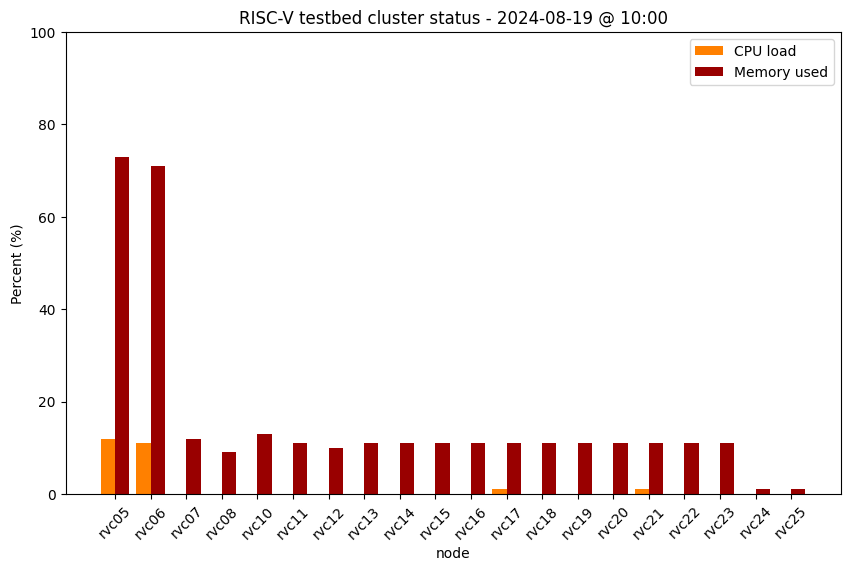
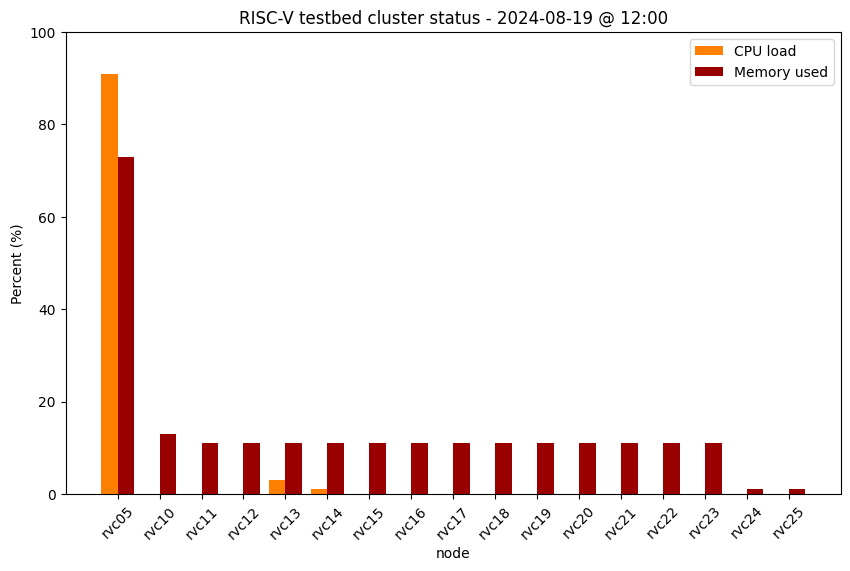
Update cluster status

Changed region(s): [[0.0918, 0.1191, 0.9482, 0.9527], [0.7341, 0.0298, 0.7647, 0.0595]]

diff --git a/status.md b/status.md
@@ -18,9 +18,9 @@ permalink: /status/
 | DongshanNezhaSTU #3 | rvc03 | 1 | 512MB | <img src="/images/amber.png" alt="amber light" width="10"/> offline |
 | DongshanNezhaSTU #4 | rvc04 | 1 | 512MB | <img src="/images/amber.png" alt="amber light" width="10"/> offline |
 | MangoPi MQ-Pro #1 | rvc05 | 1 | 1GB | <img src="/images/on.png" alt="green light" width="10"/> up |
-| MangoPi MQ-Pro #2 | rvc06 | 1 | 1GB | <img src="/images/on.png" alt="green light" width="10"/> up |
-| StarFive VisionFive V1 #1 | rvc07 | 2 | 8GB | <img src="/images/on.png" alt="green light" width="10"/> up |
-| StarFive VisionFive V1 #2 | rvc08 | 2 | 8GB | <img src="/images/on.png" alt="green light" width="10"/> up |
+| MangoPi MQ-Pro #2 | rvc06 | 1 | 1GB | <img src="/images/off.png" alt="red light" width="10"/> down |
+| StarFive VisionFive V1 #1 | rvc07 | 2 | 8GB | <img src="/images/off.png" alt="red light" width="10"/> down |
+| StarFive VisionFive V1 #2 | rvc08 | 2 | 8GB | <img src="/images/off.png" alt="red light" width="10"/> down |
 | StarFive VisionFive V1 #3 | rvc09 | 2 | 8GB | <img src="/images/amber.png" alt="amber light" width="10"/> offline |
 | HiFive Unmatched  | rvc10 | 4 | 16GB | <img src="/images/on.png" alt="green light" width="10"/> up |
 | StarFive VisionFive V2 #1 | rvc11 | 4 | 8GB | <img src="/images/on.png" alt="green light" width="10"/> up |
